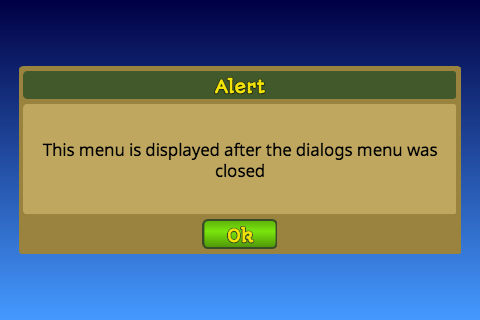
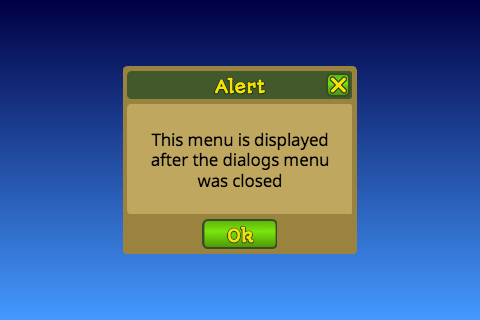
Working on doc

Changed region(s): [[0.0312, 0.1875, 0.9688, 0.8125]]

diff --git a/src/Application.js b/src/Application.js
@@ -113,6 +113,7 @@ exports = Class(GC.Application, function () {
 
 		this._alertDialog = new TextDialogView({
 			superview: this,
+			width: 500,
 			title: 'Alert',
 			text: 'This menu is displayed after the dialogs menu was closed',
 			buttons: [
@@ -141,6 +142,7 @@ exports = Class(GC.Application, function () {
 			superview: this,
 			title: 'Confirm modal',
 			text: 'Can you confirm one of these?',
+			height: device.width > device.height ? 300 : 400,
 			modal: true,
 			buttons: [
 				{
@@ -158,8 +160,9 @@ exports = Class(GC.Application, function () {
 
 		this._confirmDialog = new TextDialogView({
 			superview: this,
-			title: 'Confirm modal',
+			title: 'Confirm',
 			text: 'Can you confirm one of these?',
+			height: device.width > device.height ? 300 : 400,
 			buttons: [
 				{
 					title: 'Green',

diff --git a/readme.md b/readme.md
@@ -43,6 +43,7 @@ sliding, scaling, fading and rotating.
 ### MenuView Class
 
 <img src="doc/menus.png" width="480" height="320"/>
+*A screenshot of the main menu*
 
 Parameters
  + `superview {View}` ---The view which contains this menu, could be a menu background or the game view.
@@ -53,8 +54,8 @@ Parameters
   + `persist {boolean}` ---Optional, If this values is `true` then the menu will not be hidden when the option is clicked.
   + `text {string}` ---Optional, display a text instead of a clickable option.
   + `image {string}` ---Optional, the path to an image to display instead of a clickable option.
-  + `width {number}` ---Optional, the width of the image defaults to 70.
-  + `height {number}` ---Optional, the height of the image defaults to 70.
+  + `width {number} = 70` ---Optional, the width of the image.
+  + `height {number} = 70` ---Optional, the height of the image.
   + `align {string}` ---Optional, the horizontal alignment of the text or image, the default is `center` options are: `left`, `center` and `right`.
 
 ~~~
@@ -101,13 +102,17 @@ Emitted then the menu is hidden.
 The `TextDialogView` class is a generic dialog which can be used to create a confirm or alert dialog.
 
 <img src="doc/confirm.png" width="480" height="320"/>
+*A screenshot of a confirm dialog using the `TextDialogView` class*
+
+<img src="doc/alert.png" width="480" height="320"/>
+*A screenshot of an alert dialog using the `TextDialogView` class*
 
 Parameters
  + `superview {View}` ---The view which contains this menu, could be a menu background or the game view.
  + `title {string}` ---The title displayed in the title bar of the menu.
  + `text {string}` ---The text displayed.
  + `width {number}` ---Optional, the default value is the available screen width minus 80 pixels.
- + `height {number}` ---Optional, defaults to 400.
+ + `height {number} = 400` ---Optional, the width of the dialog.
  + `modal {boolean}` ---Optional, if true then the background will be darkened.
  + `buttons {array}` ---A list of buttons displayed at the bottom of the dialog, the structure of the button item is:
   + `title {string}` ---The title of the button.
